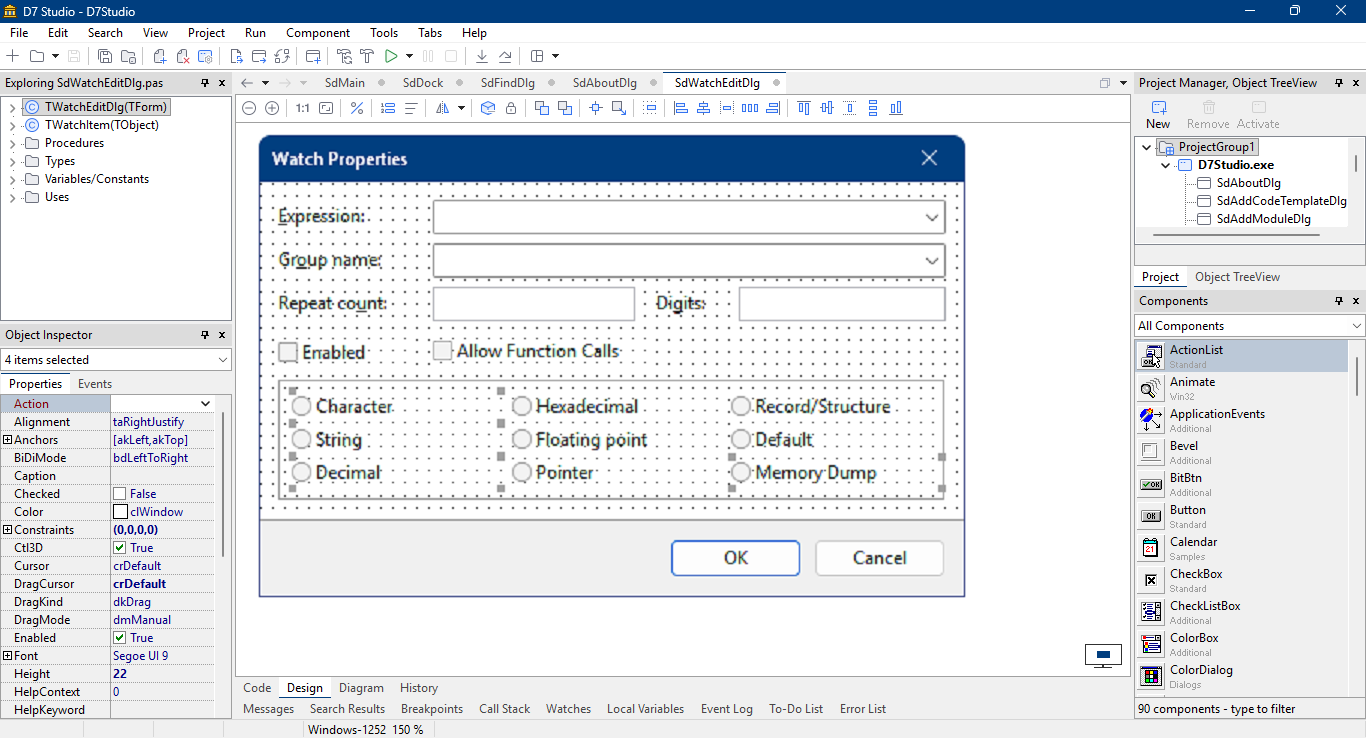
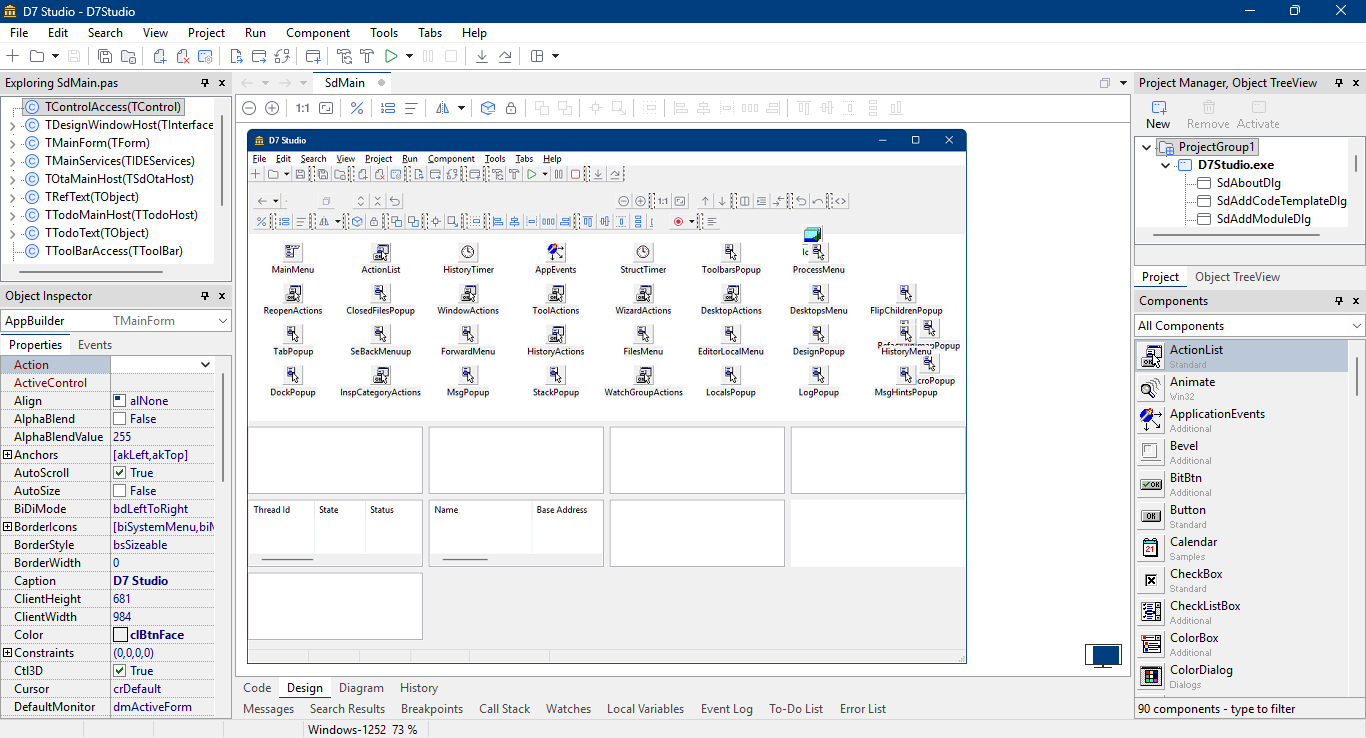
D7 Studio 1.0.6.0
Front page: the designer screenshot zoomed out on the IDE's own main form.

diff --git a/README.md b/README.md
@@ -17,7 +17,7 @@ current Windows API.
 <tr>
 <td align="center"><a href="screenshots/06-class-diagram.png"><img src="screenshots/06-class-diagram.png" width="200" alt="The Diagram tab: a unit's classes with their inheritance"></a><br><sub>Class diagram</sub></td>
 <td align="center"><a href="screenshots/07-dock-guides.png"><img src="screenshots/07-dock-guides.png" width="200" alt="Dock guides while a view is dragged, the drop marker on the editor area's left side"></a><br><sub>Docking</sub></td>
-<td align="center"><a href="screenshots/08-designer-zoom.png"><img src="screenshots/08-designer-zoom.png" width="200" alt="The form designer zoomed to 150 % with four controls selected and the alignment buttons"></a><br><sub>Designer zoom</sub></td>
+<td align="center"><a href="screenshots/08-designer-zoom.png"><img src="screenshots/08-designer-zoom.png" width="200" alt="The form designer zoomed out to fit a large form: the IDE's own main window with its non-visual components"></a><br><sub>Designer zoom</sub></td>
 <td align="center"><a href="screenshots/09-git.png"><img src="screenshots/09-git.png" width="200" alt="The Git expert: the changes and the commit message, the history of the commits and a diff"></a><br><sub>Git</sub></td>
 </tr>
 </table>
